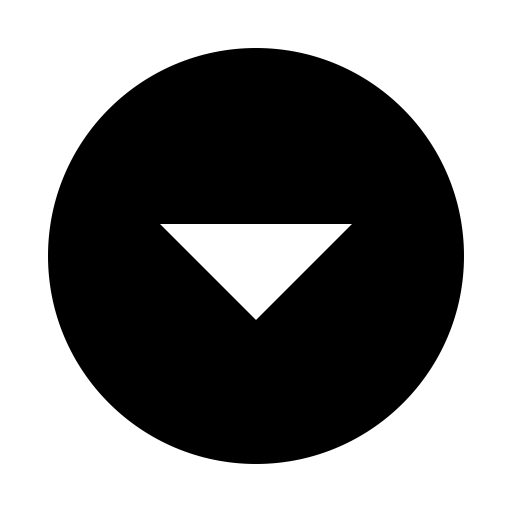
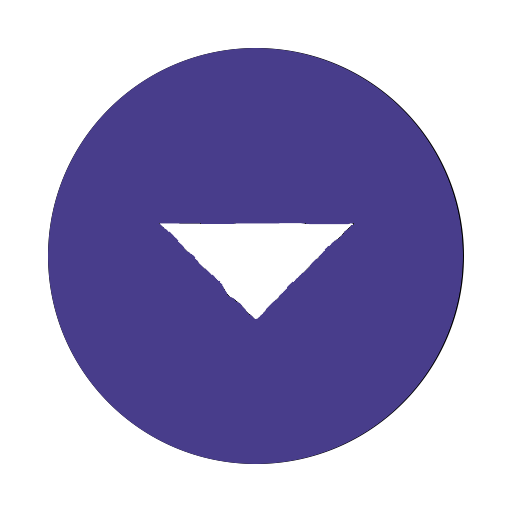
Added dropdown-arrow-up.png to images folder Changed dropdown-arrow.png color Edited styles.css

diff --git a/styles/styles.css b/styles/styles.css
@@ -164,8 +164,9 @@
     overflow: -moz-hidden-unscrollable;
     display: inline-block;
     position: relative;
-    background: url("../images/dropdown-arrow.png") no-repeat right white;
+    background: url("../images/dropdown-arrow-up.png") no-repeat right white;
     background-size: 25px;
+    border: solid 2px darkslateblue;    
 }
 /* Hiding dropdown and aligning text */
 .styled-select select{
@@ -178,12 +179,21 @@
     left: 0;
     top: 0;
     text-align: center;
+    border: solid 1px darkslateblue;
 }
-/* Changing cursor to pointer on hover */
+/* Changing cursor to pointer on hover and dropdown arrow pointing up */
 .styled-select select:hover{
     cursor: pointer;
+    background: url("../images/dropdown-arrow.png") no-repeat right white;
+    background-size: 25px;   
 }
-/* */
-.placeholder{
-    color: dimgray;
+/* Changing select placeholder text color and making it italic */
+
+/* Reverting select options to black */
+
+/* Chaning placeholder text color and making it italic */
+::placeholder{
+    color: darkgrey;
+    opacity: 1;
+    font-style: italic;
 }
